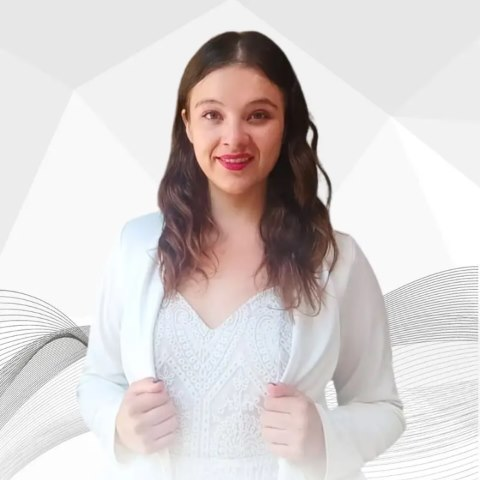
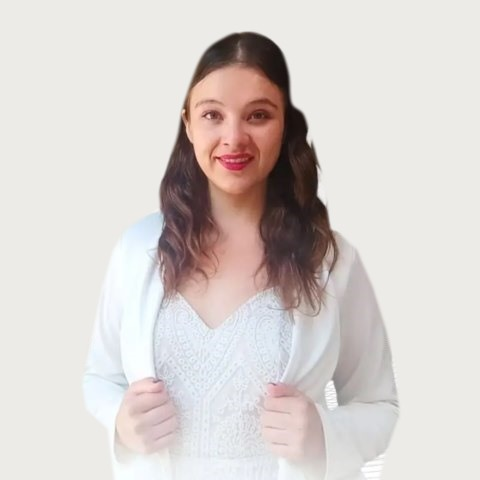
Foto de Hoshi sin fondo de lineas; css/js con version y cache corta para que los cambios se vean al instante

diff --git a/index.html b/index.html
@@ -5,8 +5,8 @@
 <meta name="viewport" content="width=device-width, initial-scale=1.0">
 <title>Consultoría gastronómica para restaurantes — Grupo MixMix</title>
 <meta name="description" content="Auditorías, capacitación y consultoría para restaurantes, más manuales, controles y paquetes descargables: la estructura real que convierte el caos en utilidades.">
-<link rel="stylesheet" href="css/mixmix-brand/mixmix.css">
-<link rel="stylesheet" href="css/site.css">
+<link rel="stylesheet" href="css/mixmix-brand/mixmix.css?v=3393207f">
+<link rel="stylesheet" href="css/site.css?v=c216728e">
 <!--#meta-->
 <link rel="icon" href="img/favicon.svg" type="image/svg+xml">
 <link rel="icon" href="img/favicon-48.png" sizes="48x48" type="image/png">
@@ -323,12 +323,12 @@
 </footer>
 <!--/#footer-->
 
-<script src="js/config.js"></script>
-<script src="js/catalog.js"></script>
-<script src="js/mm.js"></script>
-<script src="js/social.js"></script>
-<script src="js/reputacion.js"></script>
-<script src="js/store.js"></script>
-<script src="js/site.js"></script>
+<script src="js/config.js?v=c84df2de"></script>
+<script src="js/catalog.js?v=f76422b3"></script>
+<script src="js/mm.js?v=65b8dc8c"></script>
+<script src="js/social.js?v=e0a868e7"></script>
+<script src="js/reputacion.js?v=52aa1d7a"></script>
+<script src="js/store.js?v=b5c67e9d"></script>
+<script src="js/site.js?v=343188cb"></script>
 </body>
 </html>

diff --git a/descargables.html b/descargables.html
@@ -5,8 +5,8 @@
 <meta name="viewport" content="width=device-width, initial-scale=1.0">
 <title>Descargables para restaurantes: manuales, formatos y paquetes — Grupo MixMix</title>
 <meta name="description" content="Todos los manuales, formatos, KPIs, descripciones de puesto y juegos de MixMix: el catálogo completo, paquetes por perfil o cada documento por separado.">
-<link rel="stylesheet" href="css/mixmix-brand/mixmix.css">
-<link rel="stylesheet" href="css/site.css">
+<link rel="stylesheet" href="css/mixmix-brand/mixmix.css?v=3393207f">
+<link rel="stylesheet" href="css/site.css?v=c216728e">
 <!--#meta-->
 <link rel="icon" href="img/favicon.svg" type="image/svg+xml">
 <link rel="icon" href="img/favicon-48.png" sizes="48x48" type="image/png">
@@ -204,11 +204,11 @@
 </footer>
 <!--/#footer-->
 
-<script src="js/config.js"></script>
-<script src="js/catalog.js"></script>
-<script src="js/mm.js"></script>
-<script src="js/store.js"></script>
-<script src="js/site.js"></script>
+<script src="js/config.js?v=c84df2de"></script>
+<script src="js/catalog.js?v=f76422b3"></script>
+<script src="js/mm.js?v=65b8dc8c"></script>
+<script src="js/store.js?v=b5c67e9d"></script>
+<script src="js/site.js?v=343188cb"></script>
 <script>
   /* Abrir todas / cerrar todas las secciones */
   document.querySelectorAll("[data-acc]").forEach(function (b) {

diff --git a/cuenta.html b/cuenta.html
@@ -5,8 +5,8 @@
 <meta name="viewport" content="width=device-width, initial-scale=1.0">
 <title>Mi cuenta — Grupo MixMix</title>
 <meta name="robots" content="noindex">
-<link rel="stylesheet" href="css/mixmix-brand/mixmix.css">
-<link rel="stylesheet" href="css/site.css">
+<link rel="stylesheet" href="css/mixmix-brand/mixmix.css?v=3393207f">
+<link rel="stylesheet" href="css/site.css?v=c216728e">
 <!--#meta-->
 <link rel="icon" href="img/favicon.svg" type="image/svg+xml">
 <link rel="icon" href="img/favicon-48.png" sizes="48x48" type="image/png">
@@ -149,11 +149,11 @@
 </footer>
 <!--/#footer-->
 
-<script src="js/config.js"></script>
-<script src="js/catalog.js"></script>
-<script src="js/mm.js"></script>
-<script src="js/store.js"></script>
-<script src="js/site.js"></script>
+<script src="js/config.js?v=c84df2de"></script>
+<script src="js/catalog.js?v=f76422b3"></script>
+<script src="js/mm.js?v=65b8dc8c"></script>
+<script src="js/store.js?v=b5c67e9d"></script>
+<script src="js/site.js?v=343188cb"></script>
 <script>
 (function () {
   if (window.MM_CONFIG && !window.MM_CONFIG.account) { location.replace("descargables.html"); return; }

diff --git a/carrito.html b/carrito.html
@@ -5,8 +5,8 @@
 <meta name="viewport" content="width=device-width, initial-scale=1.0">
 <title>Carrito — Grupo MixMix</title>
 <meta name="robots" content="noindex">
-<link rel="stylesheet" href="css/mixmix-brand/mixmix.css">
-<link rel="stylesheet" href="css/site.css">
+<link rel="stylesheet" href="css/mixmix-brand/mixmix.css?v=3393207f">
+<link rel="stylesheet" href="css/site.css?v=c216728e">
 <!--#meta-->
 <link rel="icon" href="img/favicon.svg" type="image/svg+xml">
 <link rel="icon" href="img/favicon-48.png" sizes="48x48" type="image/png">
@@ -103,11 +103,11 @@
 </footer>
 <!--/#footer-->
 
-<script src="js/config.js"></script>
-<script src="js/catalog.js"></script>
-<script src="js/mm.js"></script>
-<script src="js/store.js"></script>
-<script src="js/site.js"></script>
+<script src="js/config.js?v=c84df2de"></script>
+<script src="js/catalog.js?v=f76422b3"></script>
+<script src="js/mm.js?v=65b8dc8c"></script>
+<script src="js/store.js?v=b5c67e9d"></script>
+<script src="js/site.js?v=343188cb"></script>
 <script>
 (function () {
   if (window.MM_CONFIG && !window.MM_CONFIG.store) { location.replace("descargables.html"); return; }

diff --git a/pedido.html b/pedido.html
@@ -6,8 +6,8 @@
 <title>Tu compra — Grupo MixMix</title>
 <meta name="robots" content="noindex">
 <meta name="referrer" content="no-referrer">
-<link rel="stylesheet" href="css/mixmix-brand/mixmix.css">
-<link rel="stylesheet" href="css/site.css">
+<link rel="stylesheet" href="css/mixmix-brand/mixmix.css?v=3393207f">
+<link rel="stylesheet" href="css/site.css?v=c216728e">
 <!--#meta-->
 <link rel="icon" href="img/favicon.svg" type="image/svg+xml">
 <link rel="icon" href="img/favicon-48.png" sizes="48x48" type="image/png">
@@ -88,11 +88,11 @@
 </footer>
 <!--/#footer-->
 
-<script src="js/config.js"></script>
-<script src="js/catalog.js"></script>
-<script src="js/mm.js"></script>
-<script src="js/store.js"></script>
-<script src="js/site.js"></script>
+<script src="js/config.js?v=c84df2de"></script>
+<script src="js/catalog.js?v=f76422b3"></script>
+<script src="js/mm.js?v=65b8dc8c"></script>
+<script src="js/store.js?v=b5c67e9d"></script>
+<script src="js/site.js?v=343188cb"></script>
 <script>
 (function () {
   if (window.MM_CONFIG && !window.MM_CONFIG.store) { location.replace("descargables.html"); return; }

diff --git a/gracias.html b/gracias.html
@@ -5,8 +5,8 @@
 <meta name="viewport" content="width=device-width, initial-scale=1.0">
 <title>Gracias por tu compra — Grupo MixMix</title>
 <meta name="robots" content="noindex">
-<link rel="stylesheet" href="css/mixmix-brand/mixmix.css">
-<link rel="stylesheet" href="css/site.css">
+<link rel="stylesheet" href="css/mixmix-brand/mixmix.css?v=3393207f">
+<link rel="stylesheet" href="css/site.css?v=c216728e">
 <!--#meta-->
 <link rel="icon" href="img/favicon.svg" type="image/svg+xml">
 <link rel="icon" href="img/favicon-48.png" sizes="48x48" type="image/png">
@@ -81,11 +81,11 @@
 </footer>
 <!--/#footer-->
 
-<script src="js/config.js"></script>
-<script src="js/catalog.js"></script>
-<script src="js/mm.js"></script>
-<script src="js/store.js"></script>
-<script src="js/site.js"></script>
+<script src="js/config.js?v=c84df2de"></script>
+<script src="js/catalog.js?v=f76422b3"></script>
+<script src="js/mm.js?v=65b8dc8c"></script>
+<script src="js/store.js?v=b5c67e9d"></script>
+<script src="js/site.js?v=343188cb"></script>
 <script>
   /*
     Esta página lee ?manual=<id> y busca el producto en js/catalog.js:

diff --git a/consultoria.html b/consultoria.html
@@ -5,8 +5,8 @@
 <meta name="viewport" content="width=device-width, initial-scale=1.0">
 <title>Consultoría y auditorías para restaurantes — Grupo MixMix</title>
 <meta name="description" content="Capacitación y consultoría individual, auditoría por área o integral, MixMix Intensiva y Reingeniería 360: acompañamiento directo con los expertos de MixMix.">
-<link rel="stylesheet" href="css/mixmix-brand/mixmix.css">
-<link rel="stylesheet" href="css/site.css">
+<link rel="stylesheet" href="css/mixmix-brand/mixmix.css?v=3393207f">
+<link rel="stylesheet" href="css/site.css?v=c216728e">
 <!--#meta-->
 <link rel="icon" href="img/favicon.svg" type="image/svg+xml">
 <link rel="icon" href="img/favicon-48.png" sizes="48x48" type="image/png">
@@ -182,8 +182,8 @@
 </footer>
 <!--/#footer-->
 
-<script src="js/config.js"></script>
-<script src="js/store.js"></script>
-<script src="js/site.js"></script>
+<script src="js/config.js?v=c84df2de"></script>
+<script src="js/store.js?v=b5c67e9d"></script>
+<script src="js/site.js?v=343188cb"></script>
 </body>
 </html>

diff --git a/contacto.html b/contacto.html
@@ -5,8 +5,8 @@
 <meta name="viewport" content="width=device-width, initial-scale=1.0">
 <title>Contacto — Grupo MixMix</title>
 <meta name="description" content="Escríbenos o agenda una llamada gratis: consultoría, auditorías y descargables para tu restaurante.">
-<link rel="stylesheet" href="css/mixmix-brand/mixmix.css">
-<link rel="stylesheet" href="css/site.css">
+<link rel="stylesheet" href="css/mixmix-brand/mixmix.css?v=3393207f">
+<link rel="stylesheet" href="css/site.css?v=c216728e">
 <!--#meta-->
 <link rel="icon" href="img/favicon.svg" type="image/svg+xml">
 <link rel="icon" href="img/favicon-48.png" sizes="48x48" type="image/png">
@@ -140,9 +140,9 @@
 </footer>
 <!--/#footer-->
 
-<script src="js/config.js"></script>
-<script src="js/store.js"></script>
-<script src="js/site.js"></script>
+<script src="js/config.js?v=c84df2de"></script>
+<script src="js/store.js?v=b5c67e9d"></script>
+<script src="js/site.js?v=343188cb"></script>
 <script>
 (function () {
   var form = document.getElementById("mm-contact-form");

diff --git a/reingenieria-360.html b/reingenieria-360.html
@@ -5,8 +5,8 @@
 <meta name="viewport" content="width=device-width, initial-scale=1.0">
 <title>Reingeniería 360 — Grupo MixMix</title>
 <meta name="description" content="Asesoría completa: entramos con todo nuestro equipo a bajar cada proceso de tu restaurante, departamento por departamento.">
-<link rel="stylesheet" href="css/mixmix-brand/mixmix.css">
-<link rel="stylesheet" href="css/site.css">
+<link rel="stylesheet" href="css/mixmix-brand/mixmix.css?v=3393207f">
+<link rel="stylesheet" href="css/site.css?v=c216728e">
 <!--#meta-->
 <link rel="icon" href="img/favicon.svg" type="image/svg+xml">
 <link rel="icon" href="img/favicon-48.png" sizes="48x48" type="image/png">
@@ -122,8 +122,8 @@
 </footer>
 <!--/#footer-->
 
-<script src="js/config.js"></script>
-<script src="js/store.js"></script>
-<script src="js/site.js"></script>
+<script src="js/config.js?v=c84df2de"></script>
+<script src="js/store.js?v=b5c67e9d"></script>
+<script src="js/site.js?v=343188cb"></script>
 </body>
 </html>

diff --git a/terminos.html b/terminos.html
@@ -5,8 +5,8 @@
 <meta name="viewport" content="width=device-width, initial-scale=1.0">
 <title>Términos de venta y reembolsos — Grupo MixMix</title>
 <meta name="description" content="Condiciones de compra, licencia de uso y política de reembolsos de los documentos digitales de Grupo MixMix.">
-<link rel="stylesheet" href="css/mixmix-brand/mixmix.css">
-<link rel="stylesheet" href="css/site.css">
+<link rel="stylesheet" href="css/mixmix-brand/mixmix.css?v=3393207f">
+<link rel="stylesheet" href="css/site.css?v=c216728e">
 <!--#meta-->
 <link rel="icon" href="img/favicon.svg" type="image/svg+xml">
 <link rel="icon" href="img/favicon-48.png" sizes="48x48" type="image/png">
@@ -98,8 +98,8 @@
 </footer>
 <!--/#footer-->
 
-<script src="js/config.js"></script>
-<script src="js/store.js"></script>
-<script src="js/site.js"></script>
+<script src="js/config.js?v=c84df2de"></script>
+<script src="js/store.js?v=b5c67e9d"></script>
+<script src="js/site.js?v=343188cb"></script>
 </body>
 </html>

diff --git a/asesoria-intensiva.html b/asesoria-intensiva.html
@@ -5,8 +5,8 @@
 <meta name="viewport" content="width=device-width, initial-scale=1.0">
 <title>MixMix Intensiva — Grupo MixMix</title>
 <meta name="description" content="Asesoría uno a uno con IA aplicada: un curso de una hora al día por 7 días para controlar tu restaurante desde cero.">
-<link rel="stylesheet" href="css/mixmix-brand/mixmix.css">
-<link rel="stylesheet" href="css/site.css">
+<link rel="stylesheet" href="css/mixmix-brand/mixmix.css?v=3393207f">
+<link rel="stylesheet" href="css/site.css?v=c216728e">
 <!--#meta-->
 <link rel="icon" href="img/favicon.svg" type="image/svg+xml">
 <link rel="icon" href="img/favicon-48.png" sizes="48x48" type="image/png">
@@ -121,8 +121,8 @@
 </footer>
 <!--/#footer-->
 
-<script src="js/config.js"></script>
-<script src="js/store.js"></script>
-<script src="js/site.js"></script>
+<script src="js/config.js?v=c84df2de"></script>
+<script src="js/store.js?v=b5c67e9d"></script>
+<script src="js/site.js?v=343188cb"></script>
 </body>
 </html>

diff --git a/privacidad.html b/privacidad.html
@@ -5,8 +5,8 @@
 <meta name="viewport" content="width=device-width, initial-scale=1.0">
 <title>Aviso de privacidad — Grupo MixMix</title>
 <meta name="description" content="Cómo tratamos tus datos personales en Grupo MixMix.">
-<link rel="stylesheet" href="css/mixmix-brand/mixmix.css">
-<link rel="stylesheet" href="css/site.css">
+<link rel="stylesheet" href="css/mixmix-brand/mixmix.css?v=3393207f">
+<link rel="stylesheet" href="css/site.css?v=c216728e">
 <!--#meta-->
 <link rel="icon" href="img/favicon.svg" type="image/svg+xml">
 <link rel="icon" href="img/favicon-48.png" sizes="48x48" type="image/png">
@@ -105,8 +105,8 @@
 </footer>
 <!--/#footer-->
 
-<script src="js/config.js"></script>
-<script src="js/store.js"></script>
-<script src="js/site.js"></script>
+<script src="js/config.js?v=c84df2de"></script>
+<script src="js/store.js?v=b5c67e9d"></script>
+<script src="js/site.js?v=343188cb"></script>
 </body>
 </html>
